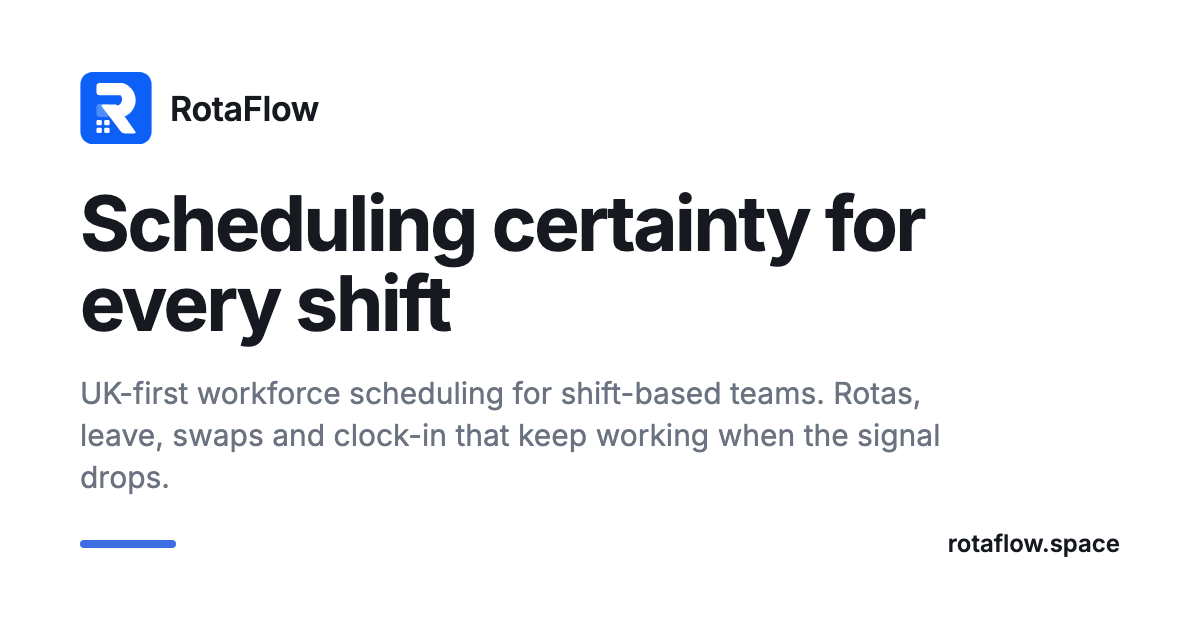
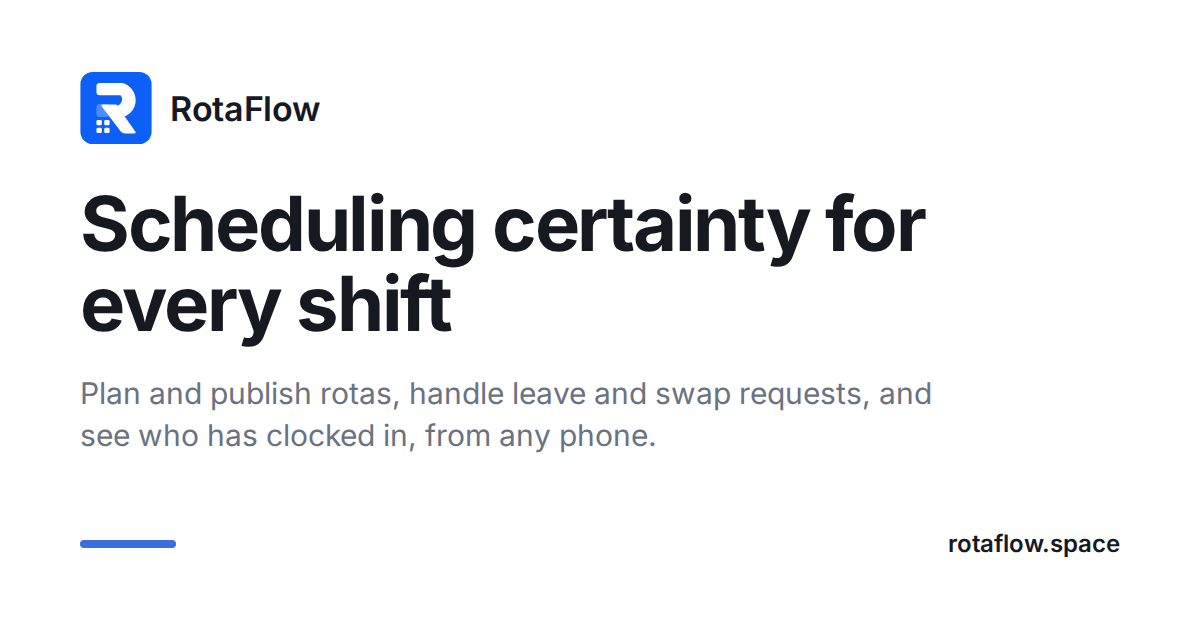
fix(website): stop the meta, manifest and share card overclaiming offline
The home and features descriptions, the PWA manifest, the login panel and
the Open Graph card all said RotaFlow keeps working when the signal drops.
Only three writes queue on the phone: a clock-in, a leave request and a
swap request (docs/ARCHITECTURE.md#offline-and-pwa). They now say exactly
that, in 154 characters for the meta description. The share card is
regenerated from scripts/generate-og-image.mjs.

BRAND_CLAIM_GUARDRAILS.hasLiveBilling becomes true: Stripe Checkout, the
Billing Portal and the webhook ship. Nothing reads the flag today.

Docs: approved claims are recorded in docs/DESIGN-SYSTEM.md by the next commit.

diff --git a/index.html b/index.html
@@ -10,7 +10,7 @@
     <meta name="theme-color" content="#3B6FE0" />
     <meta
       name="description"
-      content="UK-first workforce scheduling for shift-based teams. Build rotas, manage leave and swaps, track attendance and keep working when the signal drops."
+      content="Plan and publish rotas, handle leave and swaps, and see who has clocked in. Clock-ins, leave and swap requests wait on the phone until the signal returns."
     />
 
     <!--
@@ -33,7 +33,7 @@
     <meta property="og:title" content="RotaFlow — Scheduling certainty for every shift" />
     <meta
       property="og:description"
-      content="UK-first workforce scheduling for shift-based teams. Build rotas, manage leave and swaps, track attendance and keep working when the signal drops."
+      content="Plan and publish rotas, handle leave and swaps, and see who has clocked in. Clock-ins, leave and swap requests wait on the phone until the signal returns."
     />
     <meta property="og:image" content="https://rotaflow.space/og-image.png" />
     <meta property="og:image:width" content="1200" />
@@ -49,7 +49,7 @@
     />
     <meta
       name="twitter:description"
-      content="UK-first workforce scheduling for shift-based teams. Build rotas, manage leave and swaps, track attendance and keep working when the signal drops."
+      content="Plan and publish rotas, handle leave and swaps, and see who has clocked in. Clock-ins, leave and swap requests wait on the phone until the signal returns."
     />
     <meta name="twitter:image" content="https://rotaflow.space/og-image.png" />
 

diff --git a/src/lib/brand.ts b/src/lib/brand.ts
@@ -11,7 +11,7 @@ export const BRAND = {
   shortName: 'RotaFlow',
   tagline: 'Scheduling certainty for every shift.',
   description:
-    'UK-first workforce scheduling for shift-based teams. Build rotas, manage leave and swaps, track attendance and keep working when the signal drops.',
+    'Plan and publish rotas, handle leave and swaps, and see who has clocked in. Clock-ins, leave and swap requests wait on the phone until the signal returns.',
   positioning:
     'An offline-first workforce scheduling platform for UK organisations that need dependable cover across sites, teams and shift patterns.',
   audience: 'Scheduling managers and frontline teams in UK shift-based organisations.',
@@ -20,5 +20,7 @@ export const BRAND = {
 export const BRAND_CLAIM_GUARDRAILS = {
   isPreLaunch: true,
   hasPublicTraction: false,
-  hasLiveBilling: false,
+  // Stripe Checkout, the Billing Portal and the webhook all ship. No consumer
+  // reads this flag today; it records the fact for whoever adds one.
+  hasLiveBilling: true,
 } as const;

diff --git a/src/lib/publicRoutes.ts b/src/lib/publicRoutes.ts
@@ -53,7 +53,7 @@ export const PUBLIC_ROUTES: readonly PublicRoute[] = [
     path: '/',
     title: 'Scheduling certainty for every shift',
     description:
-      'UK-first workforce scheduling for shift-based teams. Build rotas, manage leave and swaps, track attendance, and keep working when the signal drops.',
+      'Plan and publish rotas, handle leave and swaps, and see who has clocked in. Clock-ins, leave and swap requests wait on the phone until the signal returns.',
     sitemap: true,
     priority: 1.0,
   },
@@ -61,7 +61,7 @@ export const PUBLIC_ROUTES: readonly PublicRoute[] = [
     path: '/features',
     title: 'Features',
     description:
-      'Rota building, leave and swaps, GPS clock-in, timesheets, announcements and reporting — with an offline mode that queues work until the signal returns.',
+      'Rota building, leave and swaps, GPS clock-in, timesheets and reporting. Clock-ins, leave and swap requests wait on the phone until the signal returns.',
     sitemap: true,
     priority: 0.9,
   },

diff --git a/src/pages/LoginPage.tsx b/src/pages/LoginPage.tsx
@@ -113,7 +113,7 @@ export function LoginPage(): JSX.Element {
     <AuthSplitLayout
       headline="Scheduling certainty"
       headlineAccent="for every shift."
-      description="Build rotas with fewer surprises, keep staff informed, and keep a dependable attendance record — even when the signal drops."
+      description="Build rotas with fewer surprises, keep staff informed, and keep a record of every clock-in. A clock-in made with no signal waits on the phone until it returns."
       features={AUTH_FEATURES}
     >
       <div className="w-full max-w-2xl animate-fade-up motion-reduce:animate-none rounded-2xl border border-surface-border bg-surface p-9 shadow dark:border-surface-border-dark dark:bg-surface-dark md:p-11">

diff --git a/vite.config.ts b/vite.config.ts
@@ -214,7 +214,7 @@ export default defineConfig({
         name: 'RotaFlow',
         short_name: 'RotaFlow',
         description:
-          'UK-first workforce scheduling for shift-based teams. Build rotas, manage leave and swaps, track attendance and keep working when the signal drops.',
+          'Plan and publish rotas, handle leave and swaps, and see who has clocked in. Clock-ins, leave and swap requests wait on the phone until the signal returns.',
         theme_color: '#3B6FE0',
         background_color: '#FFFFFF',
         display: 'standalone',
